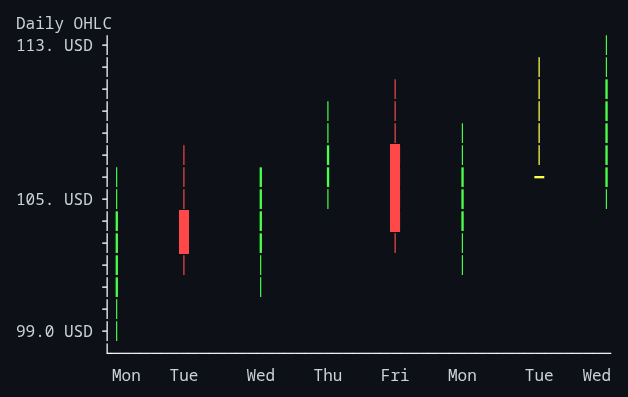
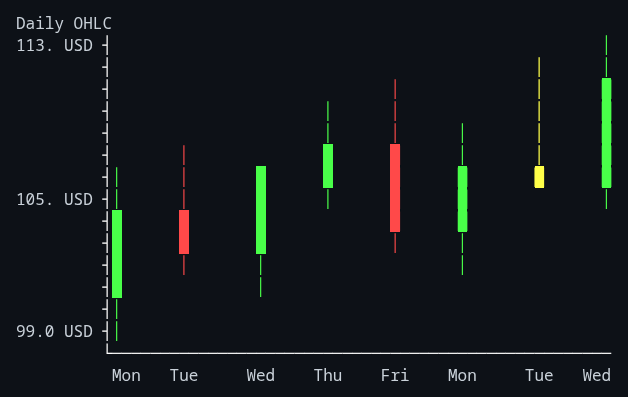
Standardize candle bodies and reorganize README examples

diff --git a/README.md b/README.md
@@ -42,7 +42,6 @@ TerminalGraph has been tested on Linux and Windows. On Windows I tested with the
   - [Live displays](#live-displays)
   - [Terminal styling](#terminal-styling)
 - [Examples](#examples)
-  - [Live and streaming examples](#live-and-streaming-examples)
 - [Development and documentation](#development-and-documentation)
 - [Attribution and license](#attribution-and-license)
 
@@ -124,6 +123,8 @@ echo plot(
 )
 ```
 
+<p><a href="examples/line_graph.nim"><img src="examples/images/line_graph.png" alt="Connected line chart example output"></a></p>
+
 ### Horizontal bars
 
 Bar charts use a shared zero baseline, so positive and negative values remain
@@ -141,6 +142,8 @@ echo plotBars(
   options
 )
 ```
+
+<p><a href="examples/bar_graph.nim"><img src="examples/images/bar_graph.png" alt="Grouped and stacked horizontal bar chart output"></a></p>
 
 ### OHLC candles
 
@@ -164,6 +167,8 @@ echo plotCandles(
 )
 ```
 
+<p><a href="examples/candle_graph.nim"><img src="examples/images/candle_graph.png" alt="Static colored OHLC candle chart output"></a></p>
+
 ### XY and scatter
 
 XY charts use explicit numeric coordinates rather than sample indices. A
@@ -183,6 +188,8 @@ echo plotScatter([
 ], options)
 ```
 
+<p><a href="examples/xy_graph.nim"><img src="examples/images/xy_graph.png" alt="Irregular XY line and scatter chart output"></a></p>
+
 ### Static graphs
 
 `StaticGraph` owns bounded series data and renders a complete deterministic
@@ -196,6 +203,8 @@ graph.push(requests, [12.0, 18.0, 15.0, 27.0, 35.0, 31.0, 42.0])
 echo graph.render(width = 64, height = 14, useColor = false)
 ```
 
+<p><a href="examples/static_graph.nim"><img src="examples/images/static_graph.png" alt="Deterministic static graph output"></a></p>
+
 ### Sparklines
 
 Sparklines embed compact trends in ordinary text. Options provide shared
@@ -208,6 +217,8 @@ var shared = initSparklineOptions()
 shared.setSparklineRange(0.0, 100.0)
 echo "Load     ", sparkline([10, 25, 40, 75, 100], shared)
 ```
+
+<p><a href="examples/sparkline_graph.nim"><img src="examples/images/sparkline_graph.png" alt="Compact sparkline examples"></a></p>
 
 ### Surfaces and contours
 
@@ -227,6 +238,8 @@ options.caption = "Service heatmap"
 echo plotContour(field, options)
 ```
 
+<p><a href="examples/advanced_graphs.nim"><img src="examples/images/advanced_graphs.png" alt="Surface and filled contour chart output"></a></p>
+
 ### Multiplot layouts
 
 Multiplot combines already-rendered strings into ANSI- and Unicode-aware grids.
@@ -240,6 +253,8 @@ let
 
 echo multiplot([latency, load], columns = 2, horizontalGap = 4)
 ```
+
+<p><a href="examples/multiplot_graph.nim"><img src="examples/images/multiplot_graph.png" alt="Responsive multiplot dashboard output"></a></p>
 
 ### Live displays
 
@@ -266,85 +281,10 @@ Use `LiveDashboard` for resize-safe full-screen redraws of arbitrary frames,
 including responsive multiplot output. On supported Windows consoles, live
 sessions enable virtual-terminal processing and restore the original mode.
 
-### Terminal styling
-
-The façade re-exports `terminal_style`, including standard, indexed, RGB, and
-hex colors; text attributes; and ANSI-aware measuring, slicing, padding, and
-wrapping.
-
-```nim
-echo bold(brightCyan("Build succeeded"))
-echo onRgb(35, 42, 58, brightYellow(" warning "))
-echo "visible cells: ", displayWidth(red("A界BC"))
-```
-
-## Examples
-
-Run any example with `nim r examples/<name>.nim`. The five live examples run
-until Ctrl+C; selected animations appear below.
-
-<details>
-<summary><a href="examples/candle_graph.nim"><code>candle_graph.nim</code></a> — static ordered OHLC candles</summary>
-<p><a href="examples/images/candle_graph.png"><img src="examples/images/candle_graph.png" alt="Static colored OHLC candle chart"></a></p>
-</details>
-
 The focused [`streaming_candle_graph.nim`](examples/streaming_candle_graph.nim)
 example appends completed periods and repeatedly replaces the newest forming
 candle. Its `renderFrame()` output can also be placed beside another graph in a
 `LiveDashboard`.
-
-<details>
-<summary><a href="examples/all_graphs.nim"><code>all_graphs.nim</code></a> — finite tour of every graph family</summary>
-<p><a href="examples/images/all_graphs.png"><img src="examples/images/all_graphs.png" alt="Complete output of the all graphs example"></a></p>
-</details>
-
-<table>
-  <tr>
-    <td width="50%">
-      <a href="examples/line_graph.nim"><img src="examples/images/line_graph.png" alt="Connected line graph example output"></a><br>
-      <strong><a href="examples/line_graph.nim"><code>line_graph.nim</code></a></strong><br>
-      Axes, multiple series, legends, gradients, and thresholds.
-    </td>
-    <td width="50%">
-      <a href="examples/bar_graph.nim"><img src="examples/images/bar_graph.png" alt="Grouped and stacked horizontal bar graph example output"></a><br>
-      <strong><a href="examples/bar_graph.nim"><code>bar_graph.nim</code></a></strong><br>
-      Grouped and stacked bars with positive and negative values.
-    </td>
-  </tr>
-  <tr>
-    <td width="50%">
-      <a href="examples/xy_graph.nim"><img src="examples/images/xy_graph.png" alt="Irregular XY line and scatter graph example output"></a><br>
-      <strong><a href="examples/xy_graph.nim"><code>xy_graph.nim</code></a></strong><br>
-      An irregular connected line and a scatter plot.
-    </td>
-    <td width="50%">
-      <a href="examples/sparkline_graph.nim"><img src="examples/images/sparkline_graph.png" alt="Sparkline example output"></a><br>
-      <strong><a href="examples/sparkline_graph.nim"><code>sparkline_graph.nim</code></a></strong><br>
-      Compact graphs, gaps, shared scales, and a color gradient.
-    </td>
-  </tr>
-  <tr>
-    <td width="50%">
-      <a href="examples/static_graph.nim"><img src="examples/images/static_graph.png" alt="Static filled terminal graph example output"></a><br>
-      <strong><a href="examples/static_graph.nim"><code>static_graph.nim</code></a></strong><br>
-      A deterministic, plain-text frame for logs and reports.
-    </td>
-    <td width="50%">
-      <a href="examples/multiplot_graph.nim"><img src="examples/images/multiplot_graph.png" alt="Responsive multiplot terminal dashboard example output"></a><br>
-      <strong><a href="examples/multiplot_graph.nim"><code>multiplot_graph.nim</code></a></strong><br>
-      A responsive dashboard of independently rendered graph types.
-    </td>
-  </tr>
-  <tr>
-    <td colspan="2">
-      <a href="examples/advanced_graphs.nim"><img src="examples/images/advanced_graphs.png" alt="Two-dimensional surface and filled contour example output"></a><br>
-      <strong><a href="examples/advanced_graphs.nim"><code>advanced_graphs.nim</code></a></strong><br>
-      A high-resolution 2D surface and filled contours.
-    </td>
-  </tr>
-</table>
-
-### Live and streaming examples
 
 <table>
   <tr>
@@ -372,6 +312,28 @@ candle. Its `renderFrame()` output can also be placed beside another graph in a
     </td>
   </tr>
 </table>
+
+### Terminal styling
+
+The façade re-exports `terminal_style`, including standard, indexed, RGB, and
+hex colors; text attributes; and ANSI-aware measuring, slicing, padding, and
+wrapping.
+
+```nim
+echo bold(brightCyan("Build succeeded"))
+echo onRgb(35, 42, 58, brightYellow(" warning "))
+echo "visible cells: ", displayWidth(red("A界BC"))
+```
+
+## Examples
+
+Each screenshot above links to its focused runnable example. For a finite tour
+of every graph family, run `nim r examples/all_graphs.nim`:
+
+<details>
+<summary><a href="examples/all_graphs.nim"><code>all_graphs.nim</code></a> — finite tour of every graph family</summary>
+<p><a href="examples/images/all_graphs.png"><img src="examples/images/all_graphs.png" alt="Complete output of the all graphs example"></a></p>
+</details>
 
 Compile-check every example at once with:
 
